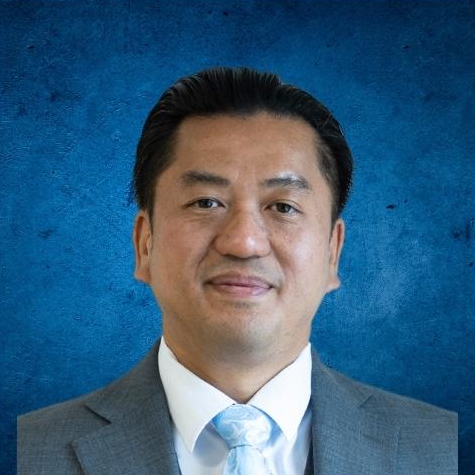
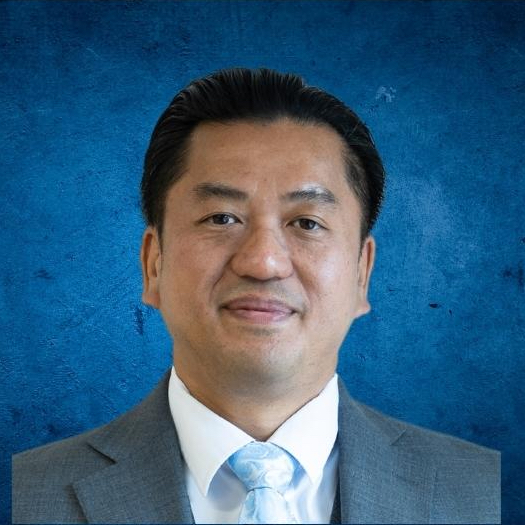
Several changes to portraits and added contact us.

diff --git a/src/style.css b/src/style.css
@@ -576,6 +576,7 @@ button {
   content: " ";
   position: absolute;
   width: 24rem;
+  max-width: 100%;
   height: 5px;
   bottom: 10px;
   left: 0;
@@ -767,15 +768,15 @@ li h4 {
 }
 
 .board__member--portrait {
-  width: 200px;
-  height: 200px;
+  width: 250px;
+  height: 250px;
   margin-inline: auto;
   top: 0;
   left: 0;
 
   border-radius: 50%;
   object-fit: cover;
-  object-position: center;
+  object-position: bottom;
 }
 
 .read-more-button {
@@ -803,6 +804,52 @@ li h4 {
 
 .board__bio p {
   padding-block-end: 2rem;
+}
+
+.contact-us {
+  gap: 1.5rem;
+  flex-direction: column;
+  justify-content: space-between;
+}
+
+.about-us__contact-header {
+  min-width: 100%;
+}
+
+.contact--3 {
+  display: flex;
+  flex-direction: column;
+  gap: 1rem;
+
+  text-align: center;
+}
+
+.contact--3 h3 {
+  font-size: var(--fs-550);
+  font-weight: 500;
+}
+
+.contact--3 a {
+  font-size: var(--fs-550);
+  color: var(--blue-2);
+  text-decoration: none;
+}
+
+.contact--3 a:visited {
+  font-size: var(--fs-550);
+  color: var(--blue-2);
+  text-decoration: none;
+}
+
+.contact-us p {
+  font-size: var(--fs-550);
+}
+
+@media (min-width: 640px) {
+  .contact-us {
+    flex-direction: row;
+    flex-wrap: wrap;
+  }
 }
 
 footer {

diff --git a/index.html b/index.html
@@ -395,6 +395,25 @@
               </div>
             </section>
           </article>
+          <article id="contact-us" class="about-us__article contact-us flex">
+            <h2 class="about-us__contact-header ff-sans-normal fs-600">Contact Us</h2>
+            <div class="contact--3">
+              <h3>Contact Number:</h3>
+              <a href="tel:+441234567890">+44(123)456-7890</a>
+            </div>
+            <div class="contact--3">
+              <h3>Email for more Info:</h3>
+              <a href="mailto:info@prestigecareuk.com?subject=Business Inquiry" target="_blank">Send us an email</a>
+            </div>
+            <div class="contact--3">
+              <h3>Office Address:</h3>
+              <p>
+                London SW1A 0AA,
+                <br />
+                United Kingdom
+              </p>
+            </div>
+          </article>
         </section>
       </div>
     </main>
